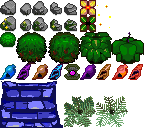
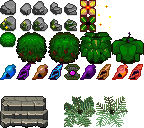
Added stairs

Changed region(s): [[0.0, 0.625, 0.4444, 1.0], [0.4444, 0.8125, 0.4722, 0.875]]

diff --git a/js/sparkAssets.js b/js/sparkAssets.js
@@ -80,6 +80,9 @@ class SparkAssets {
                 { tag: "fern",      cls: "VarSprite", variations: [
                     { x: 16*4, y: 16*6, width: 32, height: 32 } 
                ]},
+               { tag: "stairs",      cls: "VarSprite", variations: [
+                { x: 16*0, y: 16*6, width: 48, height: 32 } 
+           ]},
 
             ]},
 
@@ -303,6 +306,7 @@ class SparkAssets {
             Templates.tile("00s", "seaShell"),
             Templates.tile("00t", "waves"),
             Templates.tile("00u", "fern"),
+            Templates.tile("00v", "stairs"),
 
             Templates.object("o00", "sparkbase", "SparkBase", { 
                 powered: true,

diff --git a/js/world.js b/js/world.js
@@ -114,7 +114,7 @@ class World {
                         fg: [   
                             "0o00","0000","000s","0000","000q","0000","000s","0000",
                             "000s","0000","0000","0000","0000","0000","0000","000s",
-                            "000s","000s","0c02","000r","0000","000u","0000","0000",
+                            "000s","000s","0c02","000r","0000","000v","0000","0000",
                             "0c01","0000","0000","000o","000s","0000","0000","0o05",
                         ],
                     },
